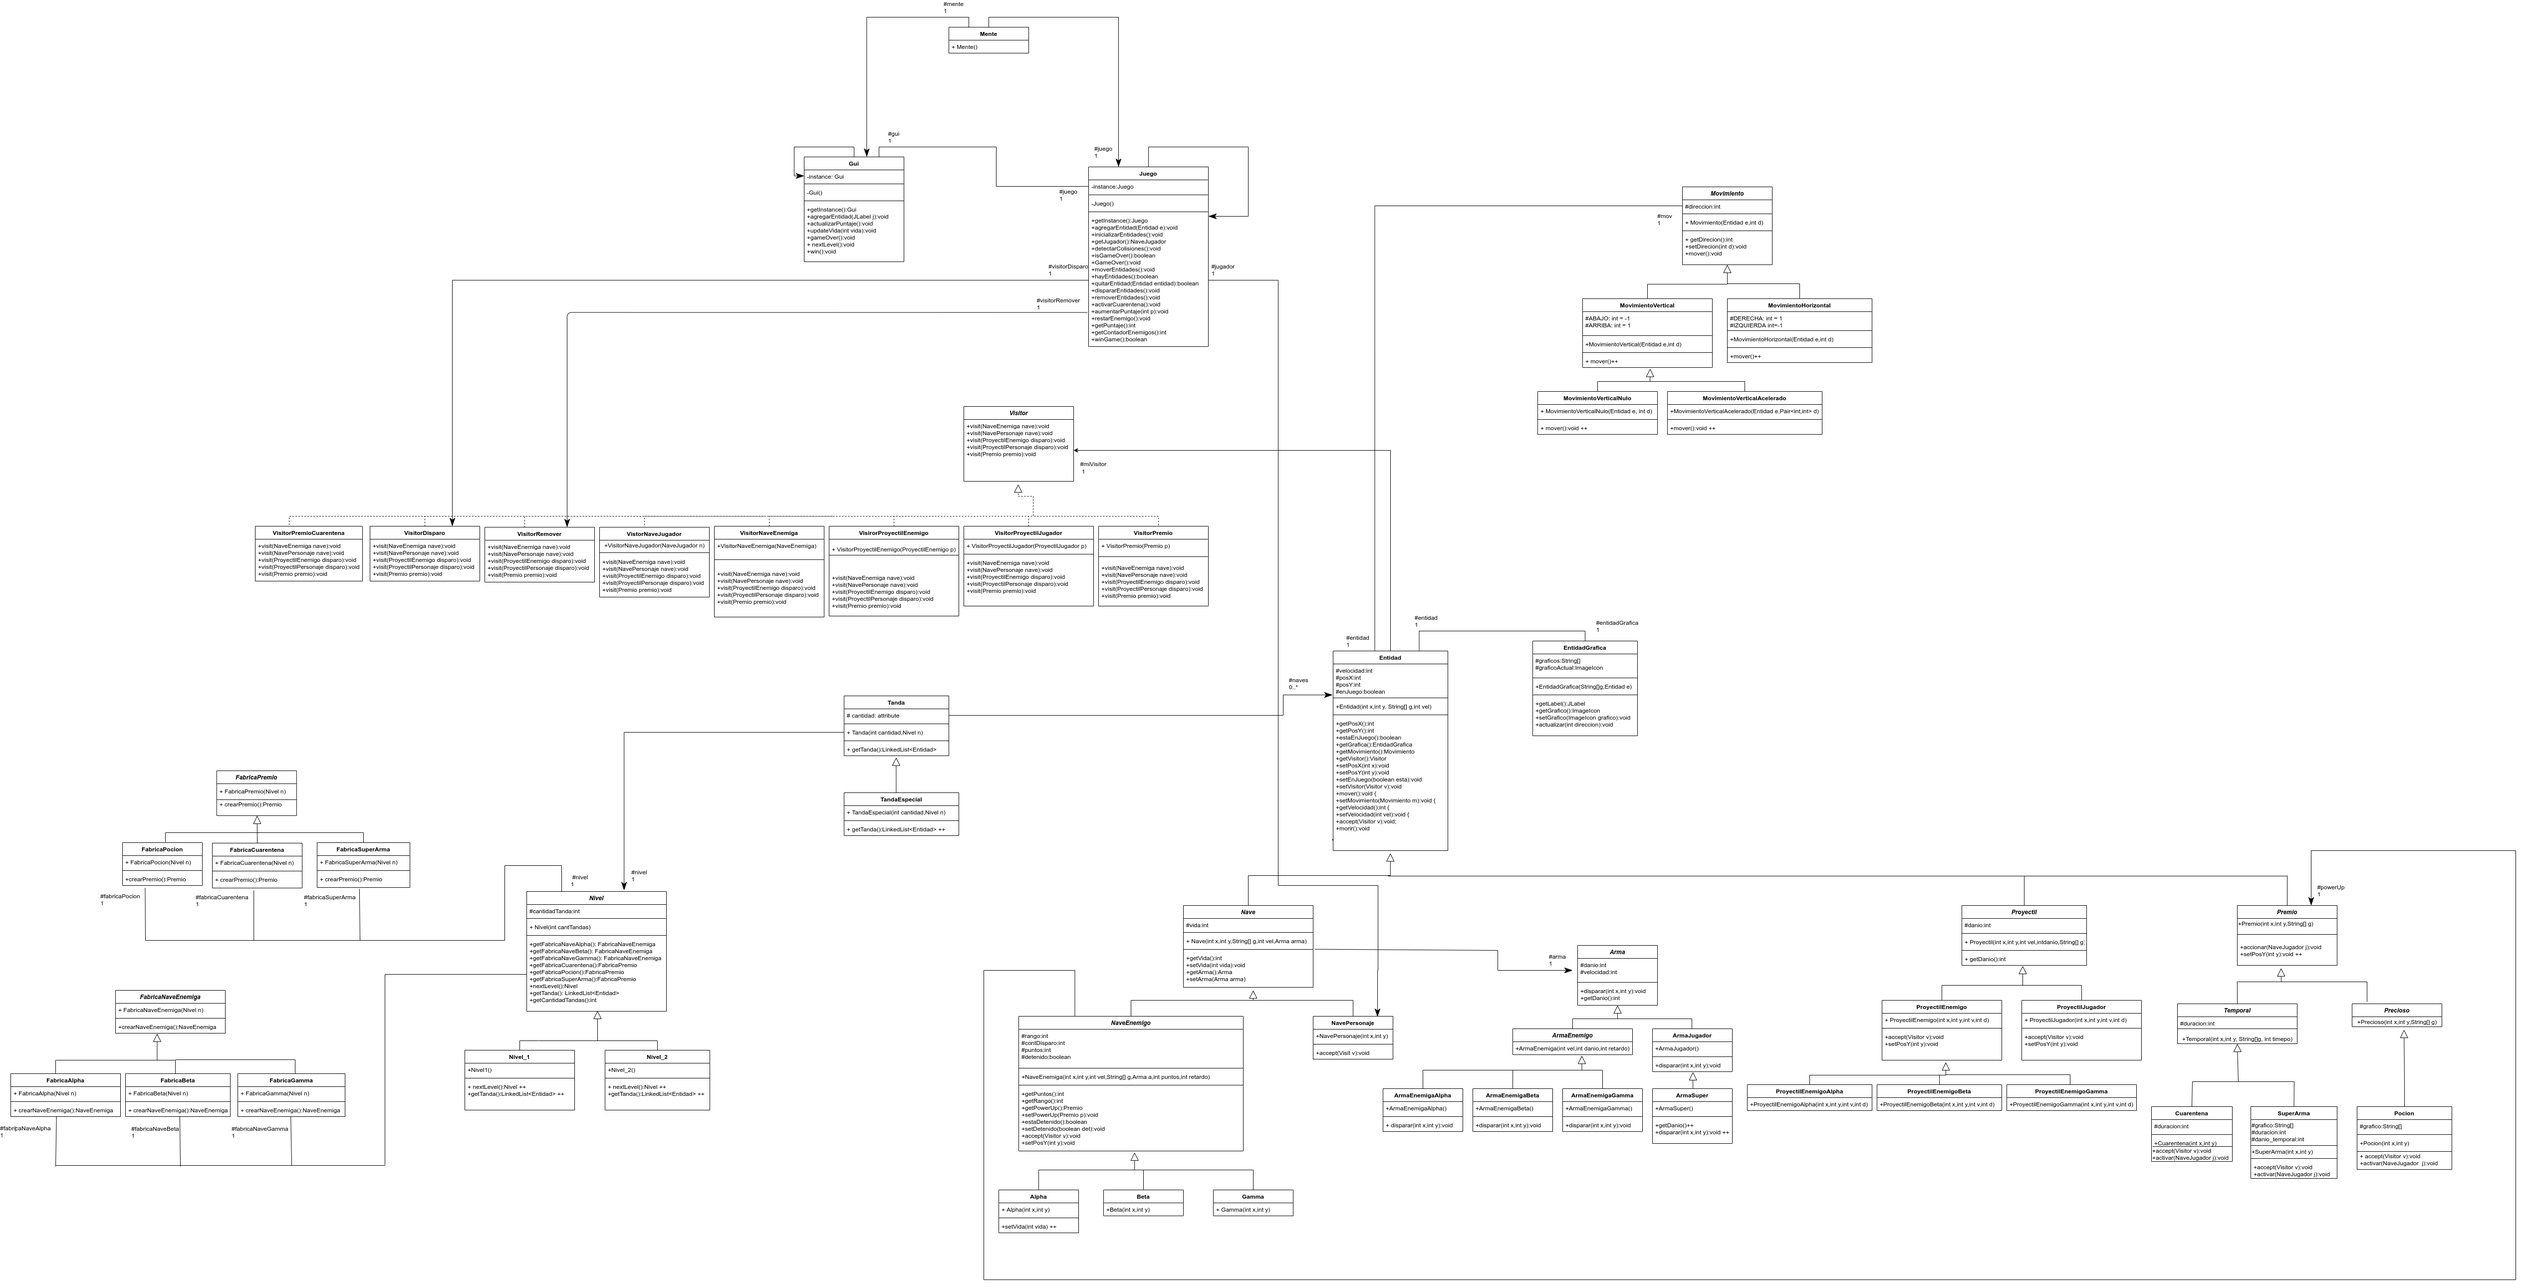
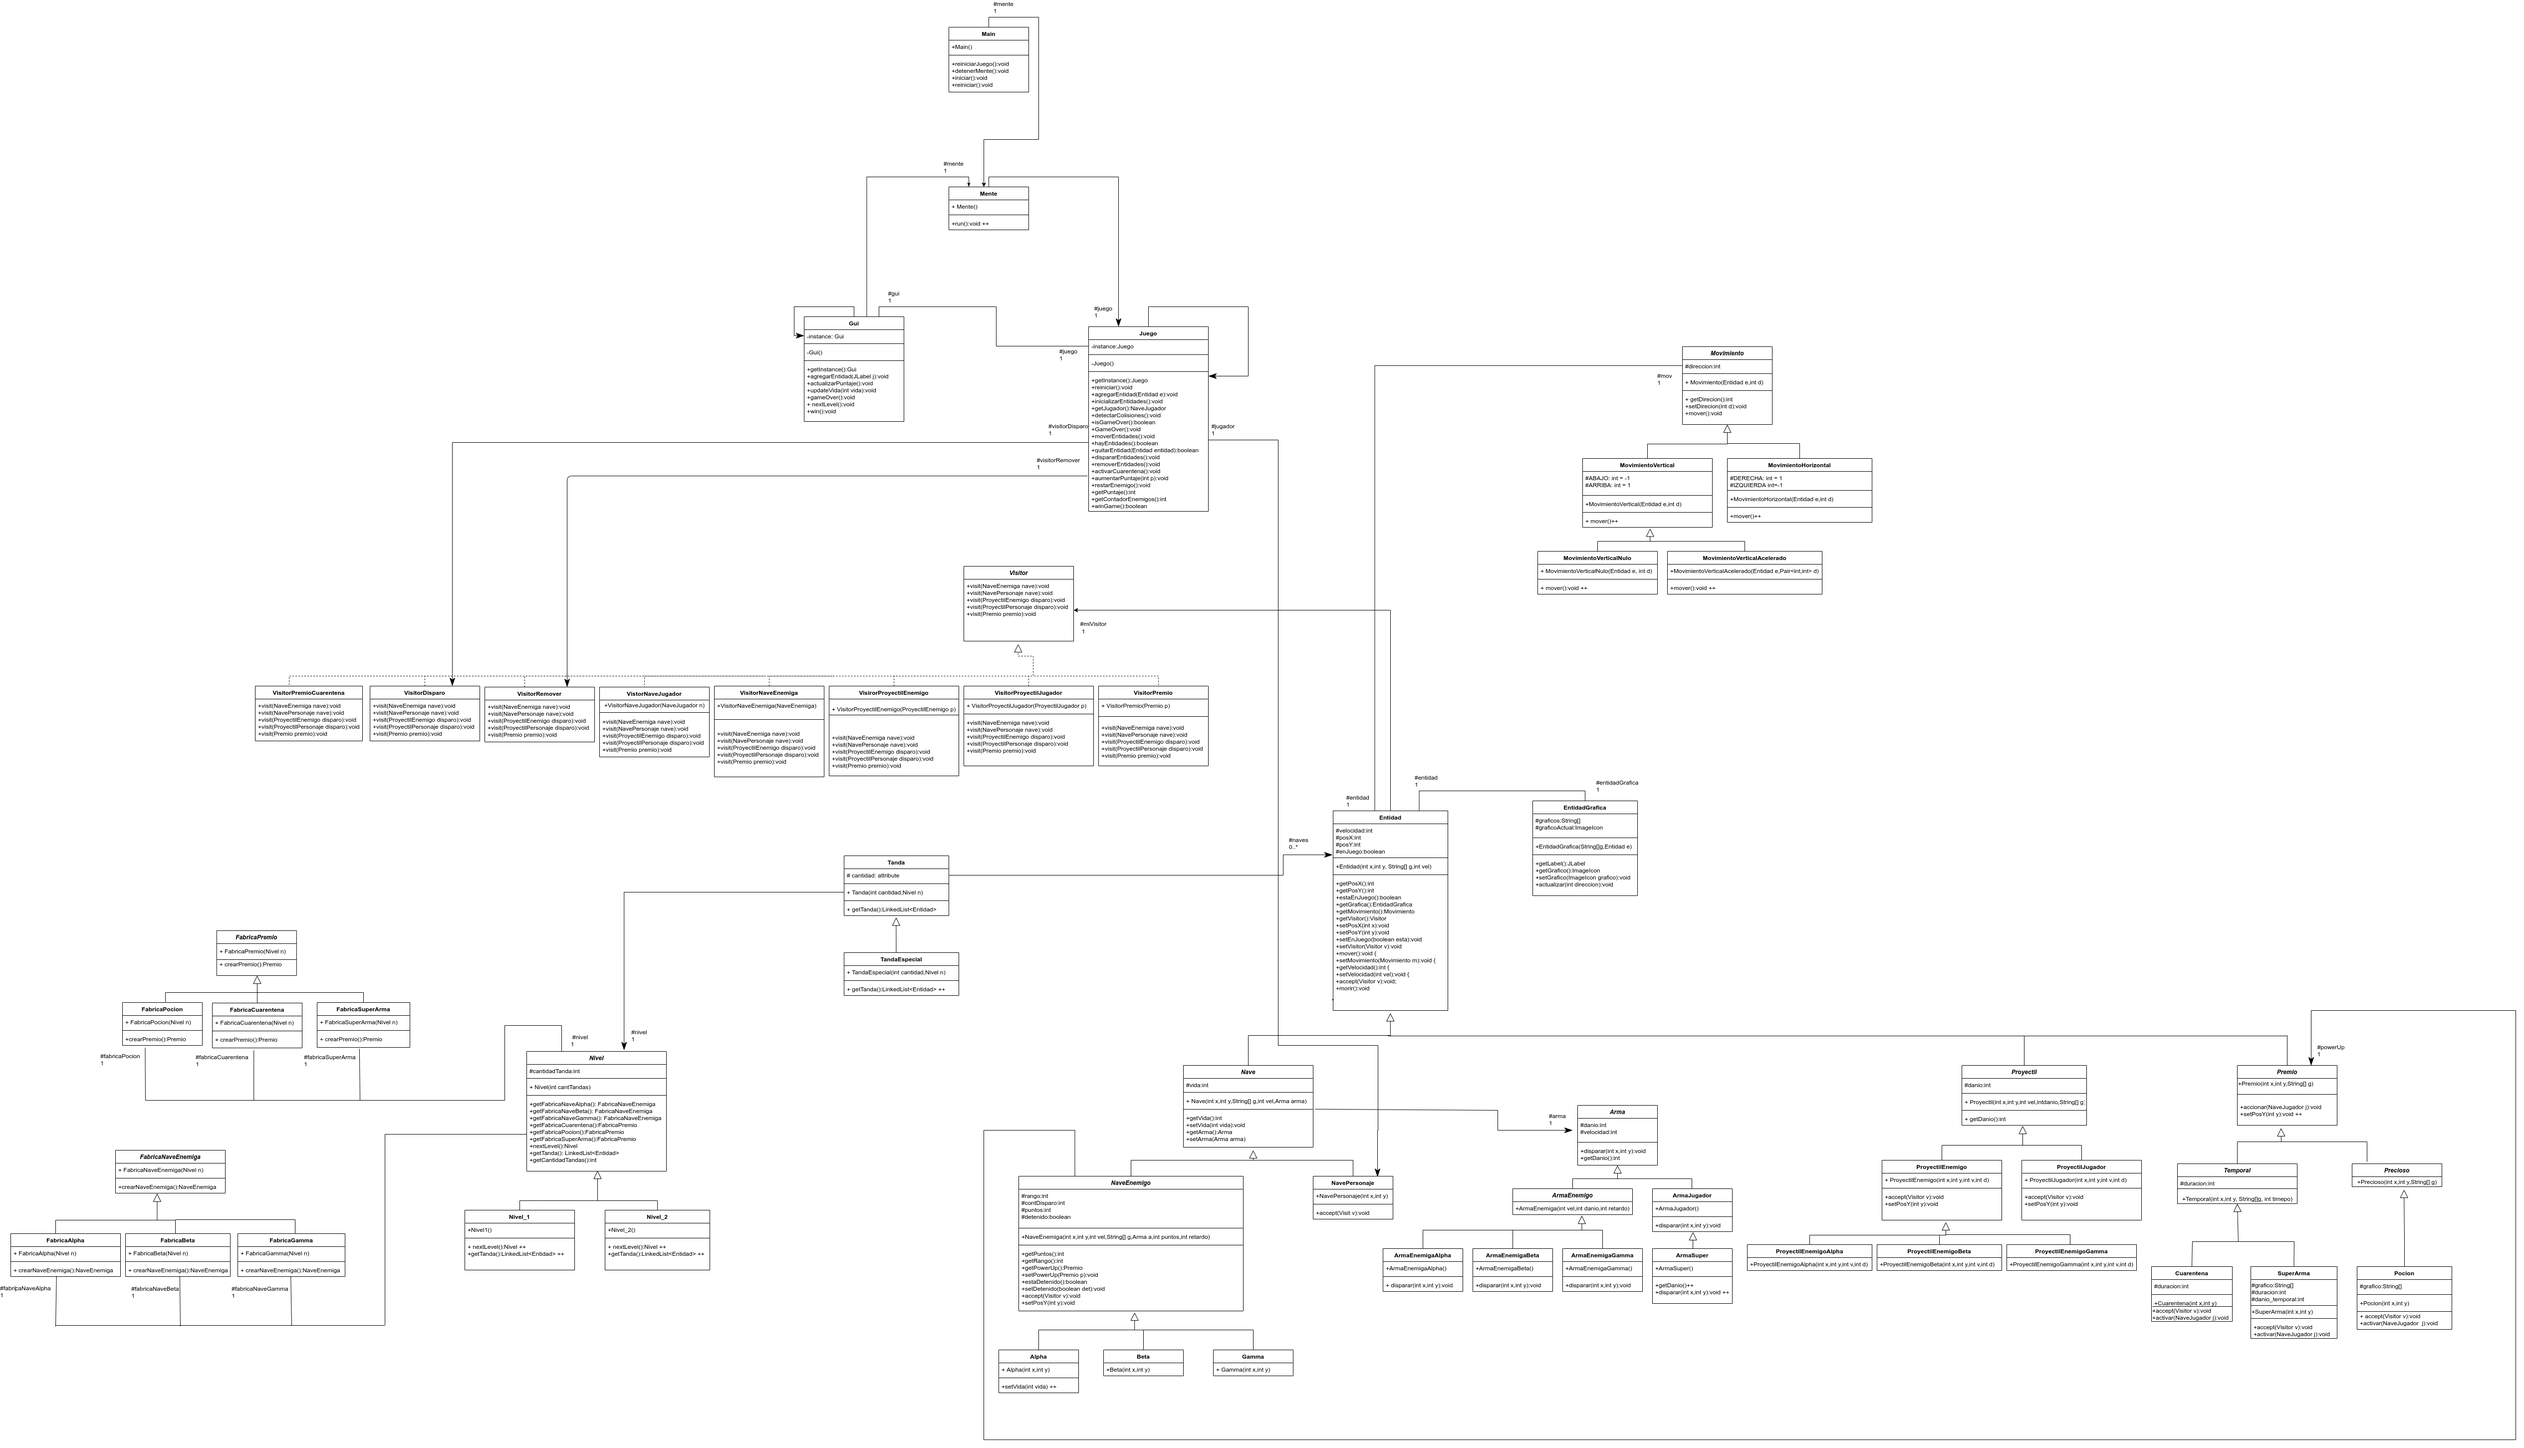
agregue main a UML

diff --git a/src/gui/Gui.java b/src/gui/Gui.java
@@ -1,11 +1,9 @@
 package gui;
 
 import java.awt.Color;
-import java.awt.EventQueue;
 import java.awt.event.KeyEvent;
 import java.awt.event.MouseEvent;
 import java.awt.event.MouseListener;
-
 import javax.swing.ImageIcon;
 import javax.swing.JFrame;
 import javax.swing.JLabel;
@@ -21,7 +19,6 @@ import javax.swing.JProgressBar;
 //Esta clase se encarga de mostrar graficamente el juego, aplica el patron de diseño Singleton
 public class Gui extends JFrame{
 
-	private static Gui frame;
 	private static final long serialVersionUID = 1L;
 	private JLayeredPane contentPane;
 	private Mente mente;
@@ -31,24 +28,6 @@ public class Gui extends JFrame{
 	private boolean win = false;
 	private JProgressBar progressBar;
 	private KeyAdapter keyAdapter;
-
-	/**
-	 * Launch the application.
-	 */
-//	public static void main(String[] args) {
-//		EventQueue.invokeLater(new Runnable() {
-//			public void run() {
-//				try {
-//					
-//					frame = Gui.getInstance();
-//					frame.setVisible(true);
-//					
-//				} catch (Exception e) {
-//					e.printStackTrace();
-//				}
-//			}
-//		});
-//	}
 
 	/**
 	 * Create the frame.
@@ -64,11 +43,7 @@ public class Gui extends JFrame{
 		contentPane.setBorder(new EmptyBorder(5, 5, 5, 5));
 		contentPane.setBounds(0,0,600,630);
 		contentPane.setLayout(null);
-		
-//		iniciarJuego();
-//		mente = new Mente();
-//		mente.start();
-		
+
 	    ImageIcon icon = new ImageIcon(this.getClass().getResource("/resources/img/fondo/fondo.gif"));
 	    fondo = new JLabel(icon);
 	    fondo.setBounds(0,0,600,617);
@@ -328,7 +303,6 @@ public class Gui extends JFrame{
 	}
 
 	//Metodo que indica graficamente que gano el juego
-	@SuppressWarnings("deprecation")
 	public void win() {
 		this.win = true;
 		this.removeKeyListener(keyAdapter);

diff --git a/src/gui/Main.java b/src/gui/Main.java
@@ -16,6 +16,7 @@ public class Main {
 		Juego.getInstance().reiniciar();
 	}
 	
+	@SuppressWarnings("deprecation")
 	public static void detenerMente() {
 		mente.stop();
 	}
